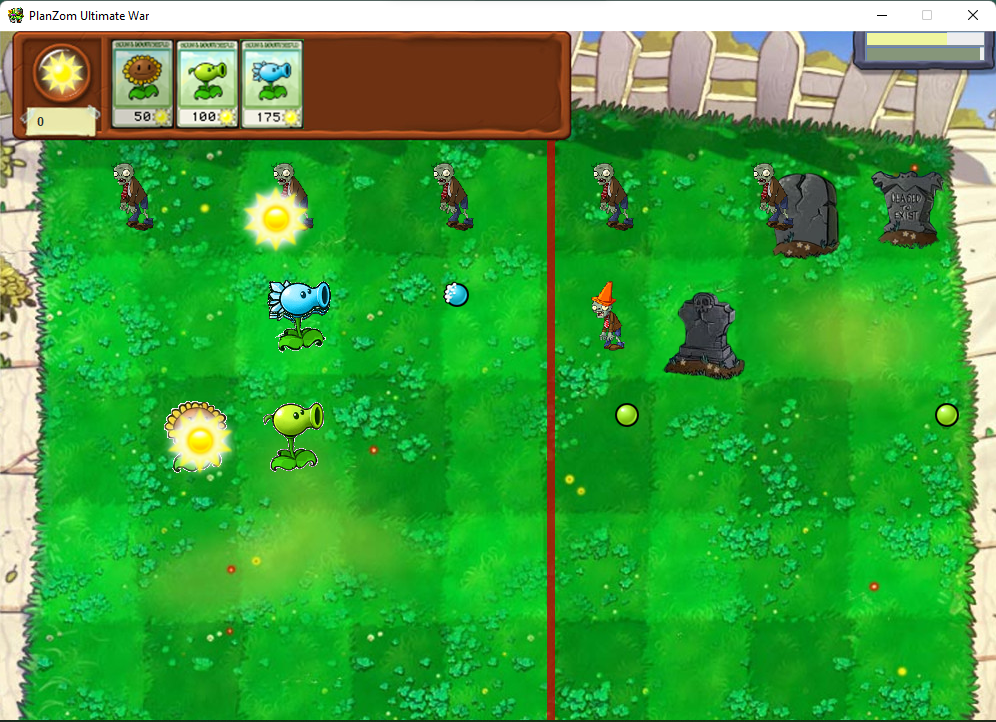
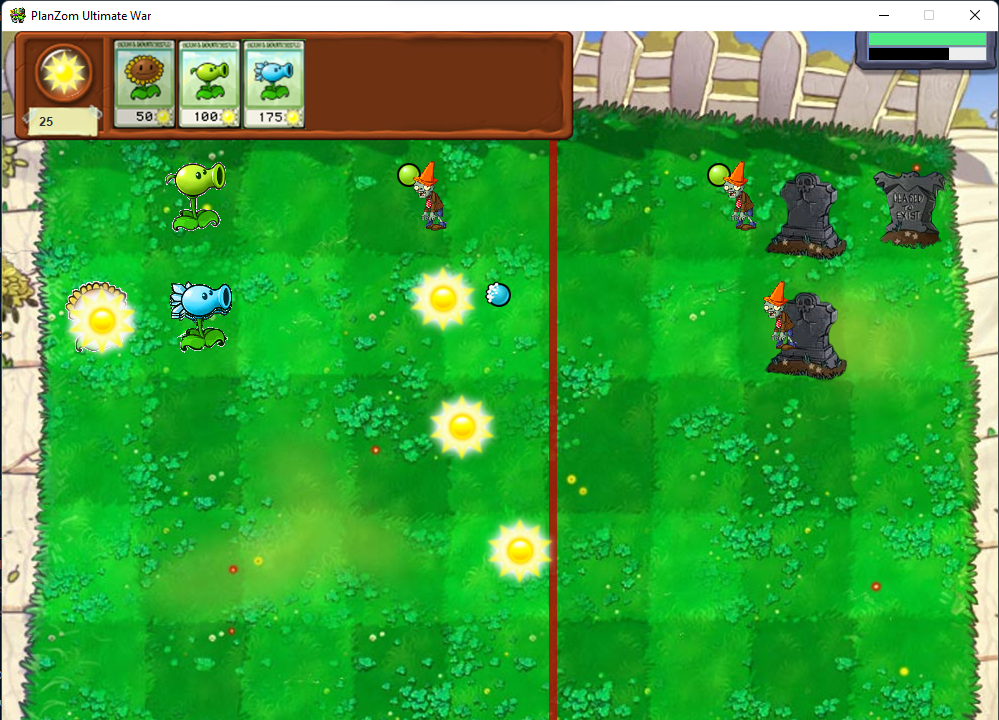
Version 1.3 - Add preview

diff --git a/src/controller/PlantGamePanel.java b/src/controller/PlantGamePanel.java
@@ -173,7 +173,7 @@ public class PlantGamePanel extends JLayeredPane implements MouseMotionListener 
                 Zom z = data.laneZoms.get(i).get(j);
                 z.advance();
                 if (data.plantHealth == 0) {
-                    System.out.println("ZOMBIES ATE BRAIN!");
+                    System.out.println("ZOMBIES CLEARED PLANTS!");
                     System.exit(0);
                 }
             }

diff --git a/src/controller/ZombieGamePanel.java b/src/controller/ZombieGamePanel.java
@@ -163,7 +163,7 @@ public class ZombieGamePanel extends JLayeredPane implements MouseMotionListener
                 Zom z = data.laneZoms.get(i).get(j);
                 z.advance();
                 if (data.plantHealth == 0) {
-                    System.out.println("ZOMBIES ATE BRAIN!");
+                    System.out.println("ZOMBIES CLEARED PLANTS!");
                     System.exit(0);
                 }
             }

diff --git a/src/controller/Health.java b/src/controller/Health.java
@@ -18,8 +18,8 @@ public class Health extends JPanel {
         setOpaque(false);
         setLayout(new GridLayout(2, 1));
 
-        plantHealth.setForeground(new Color(239, 246, 158));
-        zombieHealth.setForeground(new Color(134, 150, 122));
+        plantHealth.setForeground(new Color(81, 236, 132));
+        zombieHealth.setForeground(new Color(0, 0, 0));
 
         add(plantHealth);
         add(zombieHealth);
